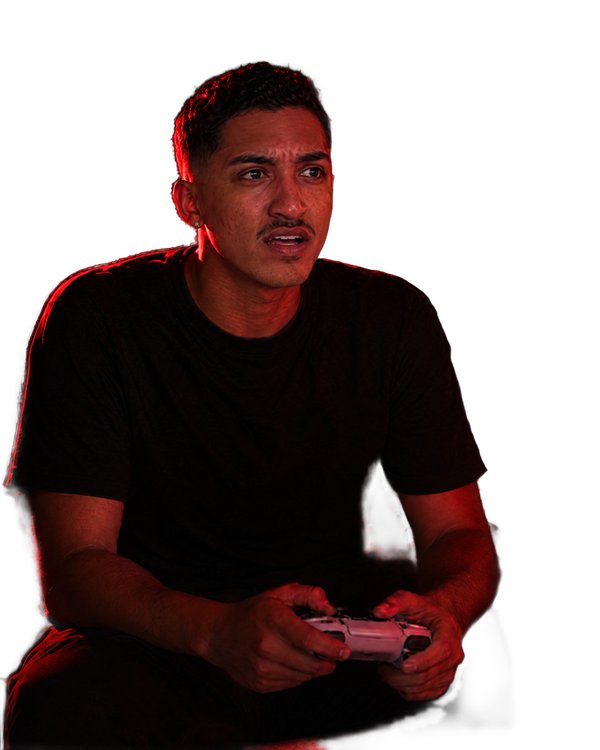
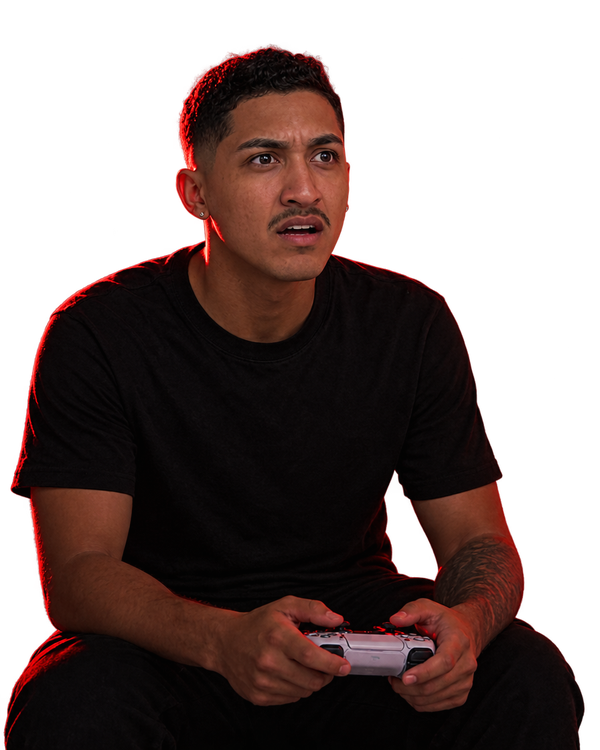
Fotos dos cards com o rosto do Illan, CTA de compra no topo e pixel pronto
- Cards "pra você que" refeitos com o rosto do Illan; tilt agora mostra ele
  furioso jogando, com o controle nas duas mãos
- Título "Quem joga com o Illan?" e cartas dos jogadores sobem uma de cada vez
- Cabeçalho: botão vermelho "Quero o curso" leva pra oferta; login vira
  link discreto "Área do aluno" (cabeçalho, menu do celular e rodapé)
- Pixel do Meta pronto (PageView, CliqueCompra, AreaDoAluno), só carrega
  quando META_PIXEL_ID for preenchido

Changed region(s): [[0.0, 0.0613, 0.99, 1.0]]

diff --git a/site/index.html b/site/index.html
@@ -14,7 +14,7 @@
 <link rel="stylesheet" href="https://fonts.googleapis.com/css2?family=Manrope:wght@400;600;700&family=Outfit:wght@300;600;800&display=swap" media="print" onload="this.media='all'">
 <noscript><link rel="stylesheet" href="https://fonts.googleapis.com/css2?family=Manrope:wght@400;600;700&family=Outfit:wght@300;600;800&display=swap"></noscript>
 <link rel="preload" as="image" href="assets/illan-hero-pessoa-hd.webp?v=3" fetchpriority="high">
-<link rel="stylesheet" href="css/style.css?v=35">
+<link rel="stylesheet" href="css/style.css?v=38">
 </head>
 <body>
 
@@ -48,8 +48,11 @@
       <a href="#alunos">Alunos</a>
       <a href="#depoimentos">Depoimentos</a>
       <a href="#faq">FAQ</a>
+      <a class="nav__aluno js-aluno" href="https://dashboard.kiwify.com.br/login" target="_blank" rel="noopener">Área do aluno</a>
     </nav>
-    <a class="btn btn--sm header__cta" href="https://dashboard.kiwify.com.br/login" target="_blank" rel="noopener">Entrar no curso</a>
+    <!-- quem já comprou faz login na Kiwify; o botão vermelho é só pra compra (vale pro tráfego pago) -->
+    <a class="header__aluno js-aluno" href="https://dashboard.kiwify.com.br/login" target="_blank" rel="noopener">Área do aluno</a>
+    <a class="btn btn--sm header__cta js-cta" href="#oferta">Quero o curso</a>
     <button class="burger" type="button" aria-expanded="false" aria-controls="menu" aria-label="Abrir menu">
       <span></span><span></span><span></span>
     </button>
@@ -126,15 +129,15 @@
     <h2 class="h2 h2--c" id="pv-title" data-letters="top 60%">Esse curso é <span class="hl">pra você que:</span></h2>
     <ul class="pv">
       <li class="pv__card">
-        <div class="pv__img"><img src="assets/card-tilt.png?v=2" width="600" height="750" loading="lazy" decoding="async" alt="Jogador irritado, com a mão no cabelo e o controle apertado na outra mão, depois de tomar um gol."></div>
+        <div class="pv__img"><img src="assets/card-tilt.png?v=4" width="600" height="750" loading="lazy" decoding="async" alt="Jogador furioso gritando com a tela, com o controle nas duas mãos, depois de tomar um gol."></div>
         <p>Tilta depois de um gol, <span class="hl">entrega o segundo</span> e fecha a Weekend League com raiva.</p>
       </li>
       <li class="pv__card">
-        <div class="pv__img"><img src="assets/card-ultimos-minutos.png?v=2" width="600" height="750" loading="lazy" decoding="async" alt="Jogador em choque olhando para a tela, boca entreaberta, controle abaixado."></div>
+        <div class="pv__img"><img src="assets/card-ultimos-minutos.png?v=3" width="600" height="750" loading="lazy" decoding="async" alt="Jogador em choque olhando para a tela, boca entreaberta, controle abaixado."></div>
         <p>Toma gol nos últimos 10 minutos de jogo que <span class="hl">estava ganhando</span>, e não sabe por quê.</p>
       </li>
       <li class="pv__card">
-        <div class="pv__img"><img src="assets/card-manual.png?v=2" width="600" height="750" loading="lazy" decoding="async" alt="Jogador calmo e concentrado, inclinado para a frente com as duas mãos no controle."></div>
+        <div class="pv__img"><img src="assets/card-manual.png?v=3" width="600" height="750" loading="lazy" decoding="async" alt="Jogador calmo e concentrado, inclinado para a frente com as duas mãos no controle."></div>
         <p>Quer subir no Rivals <span class="hl">sem precisar de time caro</span>, defendendo no manual.</p>
       </li>
     </ul>
@@ -377,7 +380,7 @@
 <section class="sec" id="alunos" aria-labelledby="alunos-title">
   <div class="wrap">
     <div class="sec__head sec__head--c">
-      <h2 class="h2" id="alunos-title" data-letters>Quem joga <span class="hl">com o Illan</span></h2>
+      <h2 class="h2" id="alunos-title" data-letters>Quem joga <span class="hl">com o Illan?</span></h2>
       <p class="lead">Jogador de campeonato que já teve o Illan como coach. Se o método segura quem disputa título, imagina o que faz pela sua Weekend League.</p>
     </div>
     <ul class="fut" id="fut-grid"><!-- preenchido pelo array players em js/main.js --></ul>
@@ -528,6 +531,7 @@
     <a class="logo" href="#topo" aria-label="Illan Evolution, voltar ao topo"><span class="logo__a">Illan</span><span class="logo__b">Evolution</span></a>
     <ul class="footer__links">
       <li><a href="https://www.instagram.com/coach__illan/" rel="noopener" target="_blank" aria-label="Instagram do Coach Illan (@coach__illan)">Instagram</a></li>
+      <li><a class="js-aluno" href="https://dashboard.kiwify.com.br/login" rel="noopener" target="_blank">Área do aluno</a></li>
     </ul>
     <p class="legal">EA SPORTS FC é marca registrada da Electronic Arts Inc. Este curso é independente e não possui afiliação, patrocínio ou endosso da Electronic Arts.</p>
     <p class="legal">© <span id="ano">2026</span> Illan Evolution · Coach Illan</p>
@@ -553,6 +557,6 @@
 <script src="https://cdnjs.cloudflare.com/ajax/libs/gsap/3.13.0/gsap.min.js" defer></script>
 <script src="https://cdnjs.cloudflare.com/ajax/libs/gsap/3.13.0/ScrollTrigger.min.js" defer></script>
 <script src="https://cdnjs.cloudflare.com/ajax/libs/gsap/3.13.0/SplitText.min.js" defer></script>
-<script src="js/main.js?v=27" defer></script>
+<script src="js/main.js?v=29" defer></script>
 </body>
 </html>

diff --git a/site/js/main.js b/site/js/main.js
@@ -5,6 +5,10 @@
 // Todos os CTAs de compra usam esta URL. Enquanto estiver vazia, os botões levam à seção de oferta.
 const CHECKOUT_URL = ''; // [PREENCHER: URL do checkout]
 
+// Pixel do Meta (só números, ex.: '123456789012345'). Vazio = nenhum pixel carrega.
+// A compra (Purchase) quem dispara é a Kiwify: conecte o mesmo pixel no produto lá.
+const META_PIXEL_ID = ''; // [PREENCHER: ID do pixel do Meta]
+
 // Jogadores de campeonato que já tiveram o Illan como coach. Troque foto e texto só aqui.
 // foto: PNG/WebP com fundo transparente dentro de site/ (ex.: 'assets/jogadores/nick.webp'). Vazio = silhueta.
 // pos: posição horizontal do recorte da foto (0% = esquerda). retrato: true pra foto em pé (mostra da cabeça ao peito). inteira: true pra foto pequena de meio corpo (aparece inteira, sem zoom). titulos: um por linha.
@@ -40,6 +44,22 @@ const $$ = (s, el = document) => [...el.querySelectorAll(s)];
 
 /* ---------- CTAs → checkout ---------- */
 if (CHECKOUT_URL) $$('.js-cta').forEach(a => { a.href = CHECKOUT_URL; });
+
+/* ---------- pixel do Meta ----------
+   PageView na visita; CliqueCompra em qualquer botão de compra; AreaDoAluno no link de login.
+   Quem dispara AreaDoAluno quase sempre já é aluno: use esse público como exclusão nas campanhas.
+   (CliqueCompra é evento próprio pra não duplicar o InitiateCheckout que a Kiwify já dispara no checkout.) */
+if (META_PIXEL_ID) {
+  !function (f, b, e, v, n, t, s) {
+    if (f.fbq) return; n = f.fbq = function () { n.callMethod ? n.callMethod.apply(n, arguments) : n.queue.push(arguments); };
+    if (!f._fbq) f._fbq = n; n.push = n; n.loaded = !0; n.version = '2.0'; n.queue = [];
+    t = b.createElement(e); t.async = !0; t.src = v; s = b.getElementsByTagName(e)[0]; s.parentNode.insertBefore(t, s);
+  }(window, document, 'script', 'https://connect.facebook.net/en_US/fbevents.js');
+  fbq('init', META_PIXEL_ID);
+  fbq('track', 'PageView');
+  $$('.js-cta').forEach(a => a.addEventListener('click', () => fbq('trackCustom', 'CliqueCompra', { botao: a.textContent.trim() })));
+  $$('.js-aluno').forEach(a => a.addEventListener('click', () => fbq('trackCustom', 'AreaDoAluno')));
+}
 
 /* ---------- ano no rodapé ---------- */
 $('#ano').textContent = new Date().getFullYear();
@@ -567,10 +587,10 @@ addEventListener('DOMContentLoaded', () => {
       });
     });
 
-    /* jogadores: a carta vira como revelação de pack */
-    // gira o <li> (não a carta) pra não brigar com o tilt do mouse, que usa o transform da carta
-    prep('.fut > li', { opacity: 0, rotateY: -70, y: 30, transformPerspective: 900 });
-    reveal('.fut > li', { opacity: 0, rotateY: -70, y: 30 }, { stagger: .1, duration: 1, ease: 'back.out(1.4)' });
+    /* jogadores: as cartas sobem de baixo pra cima, uma de cada vez, cada uma no seu tempo */
+    // anima o <li> (não a carta) pra não brigar com o tilt do mouse, que usa o transform da carta
+    prep('.fut > li', { opacity: 0, y: 90 });
+    reveal('.fut > li', { opacity: 0, y: 90 }, { stagger: .22, duration: .9, ease: 'power3.out' });
 
     /* oferta: card cresce ao entrar, brilho aumenta */
     // só escala: o card da oferta nunca aparece apagado

diff --git a/site/css/style.css b/site/css/style.css
@@ -171,6 +171,7 @@ mark.fill{ background:var(--todo); color:#000; padding:0 .3em; border-radius:4px
 .header__in{ height:100%; width:min(100% - var(--gutter) * 2, 1320px); margin-inline:auto; display:flex; align-items:center; gap:12px; }
 .header .logo{ margin-right:auto; }
 .header__cta{ display:none; }
+.header__aluno{ display:none; }
 .nav{ display:none; }
 .burger{ width:48px; height:48px; display:grid; place-content:center; gap:5px; background:rgba(255,255,255,.06); border:1px solid var(--line); border-radius:999px; cursor:pointer; }
 .burger span{ display:block; width:20px; height:2px; border-radius:2px; background:#fff; transition:transform .25s var(--ease), opacity .2s; }
@@ -192,6 +193,10 @@ mark.fill{ background:var(--todo); color:#000; padding:0 .3em; border-radius:4px
   .nav{ display:flex; gap:28px; margin-right:16px; }
   .nav a{ min-width:44px; text-align:center; font-size:.875rem; font-weight:600; text-decoration:none; color:var(--txt-2); padding:12px 4px; transition:color .2s; }
   .nav a:hover{ color:#fff; }
+  /* login do aluno: link discreto ao lado do botão de compra (no menu do celular ele fica dentro do menu) */
+  .nav .nav__aluno{ display:none; }
+  .header__aluno{ display:inline-block; padding:4px 6px 4px 20px; margin-right:8px; border-left:1px solid var(--line); font-size:.8125rem; font-weight:600; color:var(--txt-2); text-decoration:none; transition:color .2s; }
+  .header__aluno:hover{ color:#fff; }
 }
 
 /* =========================================================
@@ -333,7 +338,7 @@ mark.fill{ background:var(--todo); color:#000; padding:0 .3em; border-radius:4px
   .pv__card .pv__img img{ position:absolute; inset:0; }
   .pv__card:first-child .pv__img{ flex:1; aspect-ratio:auto; min-height:300px; }
   /* foto grande: menos zoom, do cabelo até o controle (o PNG é recortado, o fundo vermelho aparece dos lados) */
-  .pv__card:first-child .pv__img img{ inset:auto; top:-2%; left:50%; width:auto; height:150%; transform:translateX(-50%); object-fit:contain; }
+  .pv__card:first-child .pv__img img{ inset:auto; top:2%; left:50%; width:auto; height:122%; transform:translateX(-50%); object-fit:contain; }
   .pv__card:first-child p{ font-size:1.1875rem; font-weight:600; }
   .pv__card:not(:first-child){ display:grid; grid-template-columns:42% minmax(0,1fr); align-items:center; border-radius:var(--r-md); }
   .pv__card:not(:first-child) .pv__img{ aspect-ratio:auto; height:100%; min-height:230px; }
